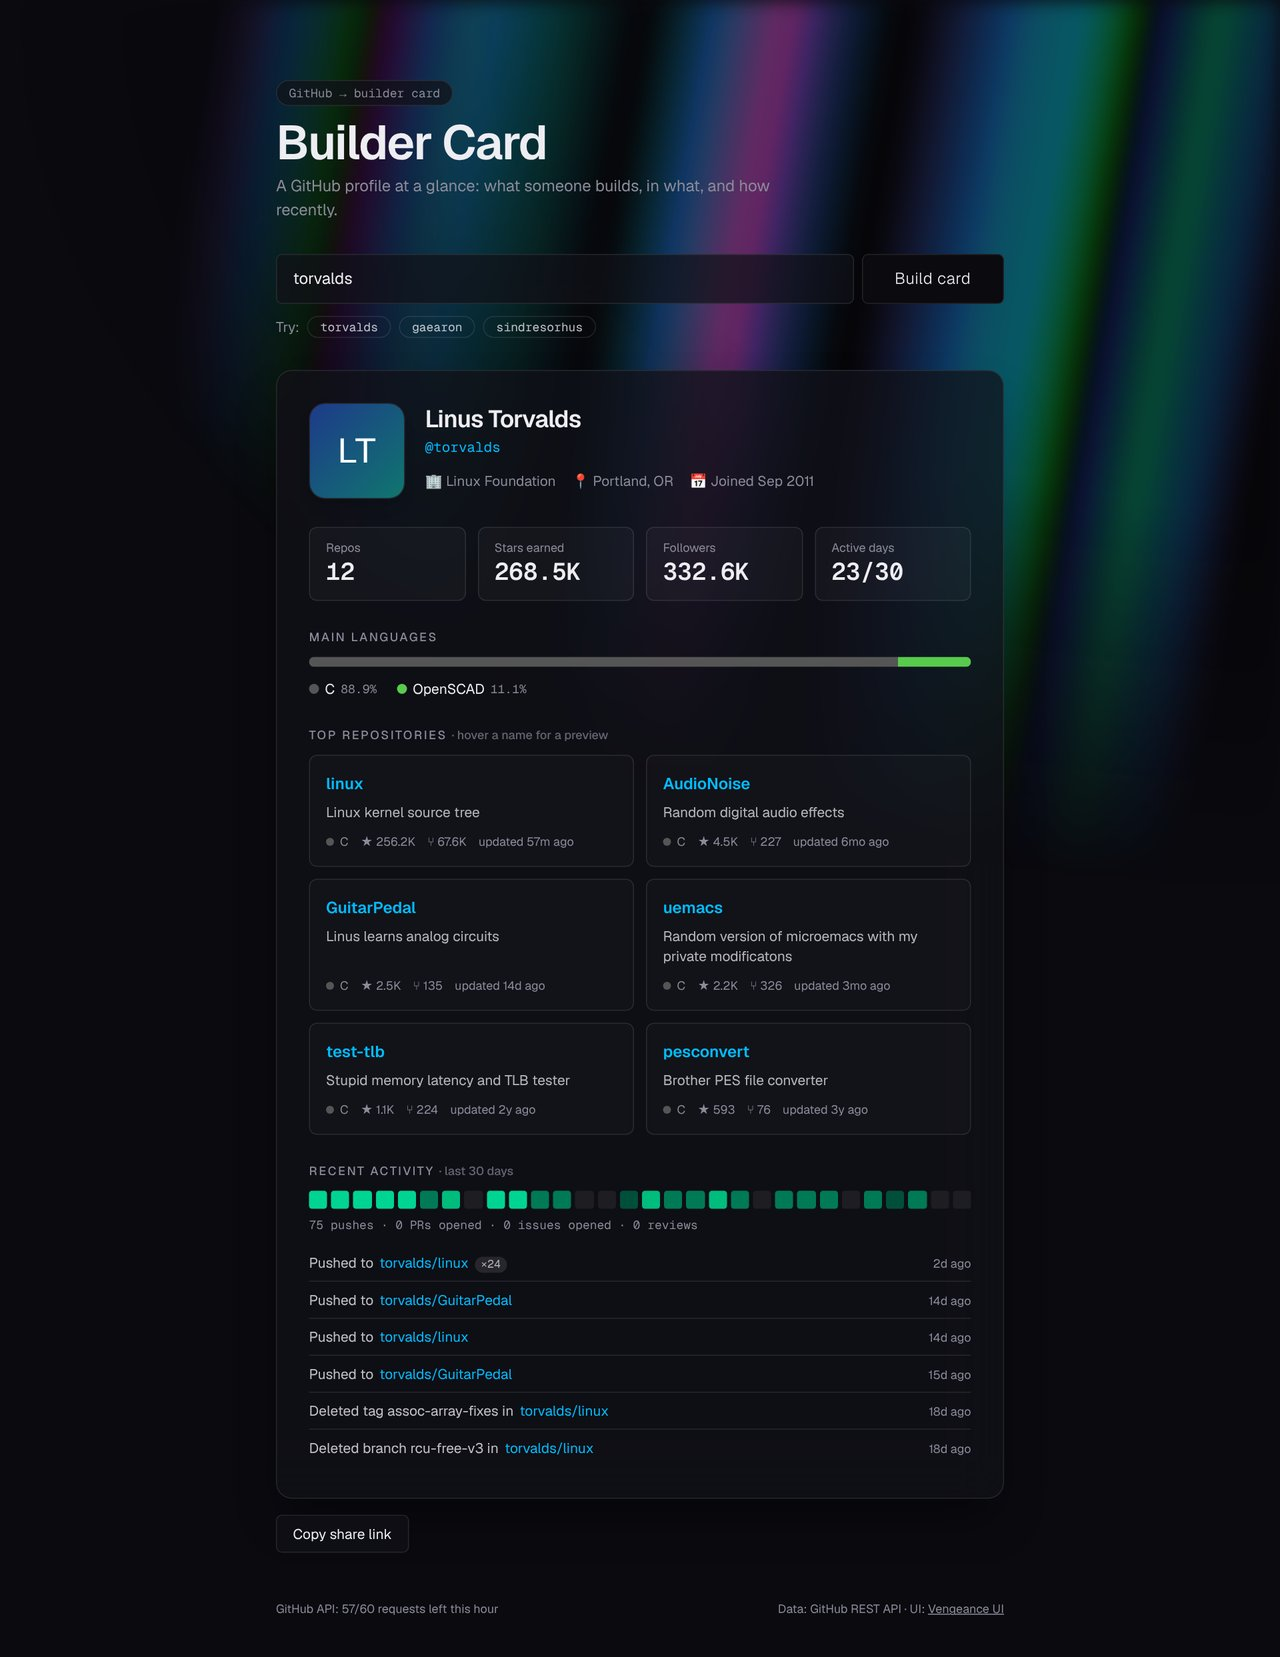
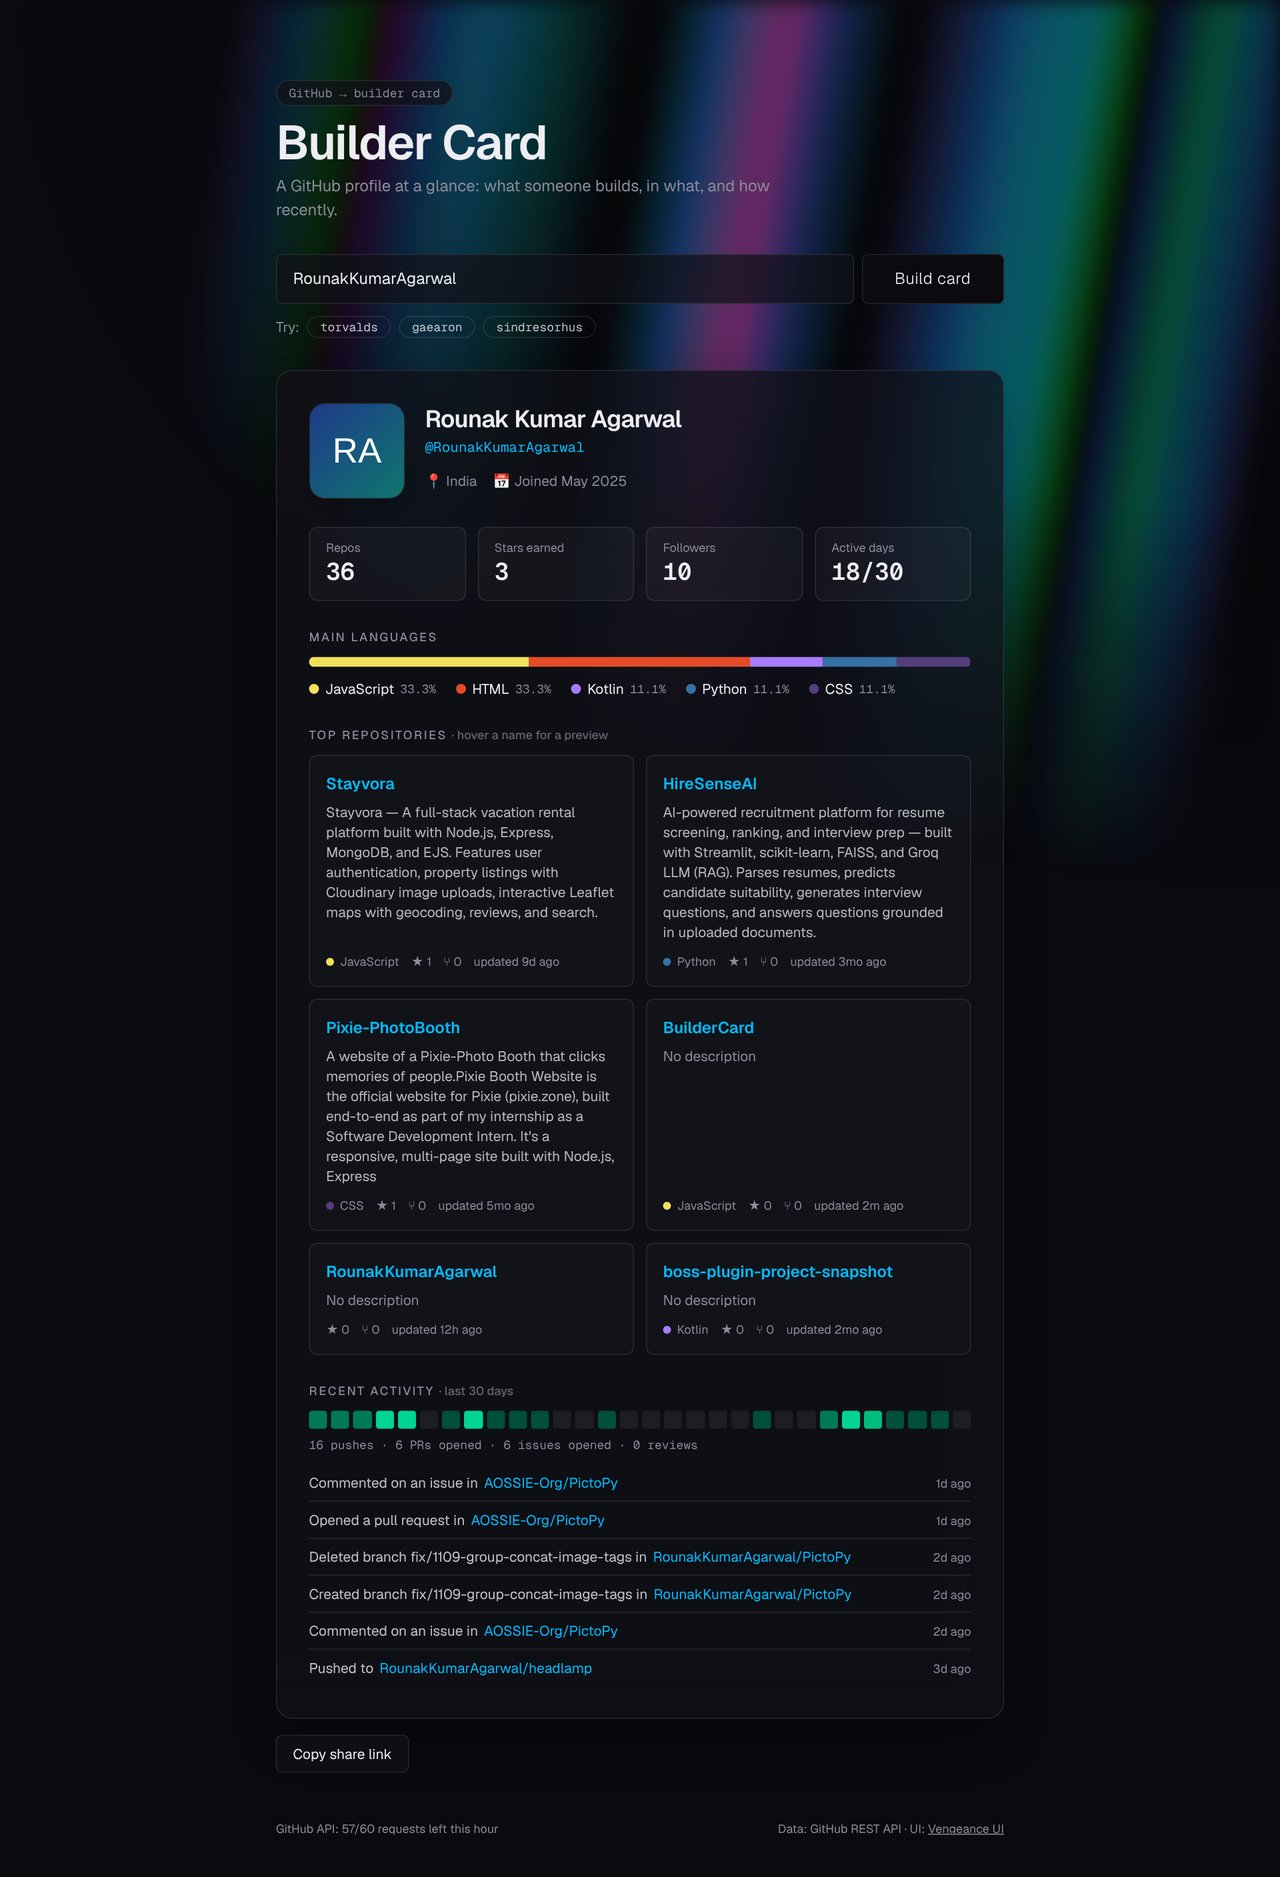
docs: show my own card in the README

diff --git a/README.md b/README.md
@@ -3,9 +3,9 @@
 Enter a GitHub username and get a **builder card**: who they are, their best repositories, the languages they build in, and what they've been doing over the last 30 days.
 
 **🔗 Live:** https://builder-card-two.vercel.app
-**👉 Try it:** [torvalds](https://builder-card-two.vercel.app/?u=torvalds) · [gaearon](https://builder-card-two.vercel.app/?u=gaearon) · [sindresorhus](https://builder-card-two.vercel.app/?u=sindresorhus) · [vercel (an org)](https://builder-card-two.vercel.app/?u=vercel) · [RounakKumarAgarwal (me)](https://builder-card-two.vercel.app/?u=RounakKumarAgarwal)
+**👉 Try it:** [RounakKumarAgarwal (me)](https://builder-card-two.vercel.app/?u=RounakKumarAgarwal) · [torvalds](https://builder-card-two.vercel.app/?u=torvalds) · [gaearon](https://builder-card-two.vercel.app/?u=gaearon) · [sindresorhus](https://builder-card-two.vercel.app/?u=sindresorhus) · [vercel (an org)](https://builder-card-two.vercel.app/?u=vercel)
 
-![Builder Card for torvalds](docs/screenshot.jpg)
+![Builder Card for RounakKumarAgarwal](docs/screenshot.jpg)
 
 <sub>Screenshot uses real GitHub data; the avatar is replaced with a placeholder.</sub>
 
